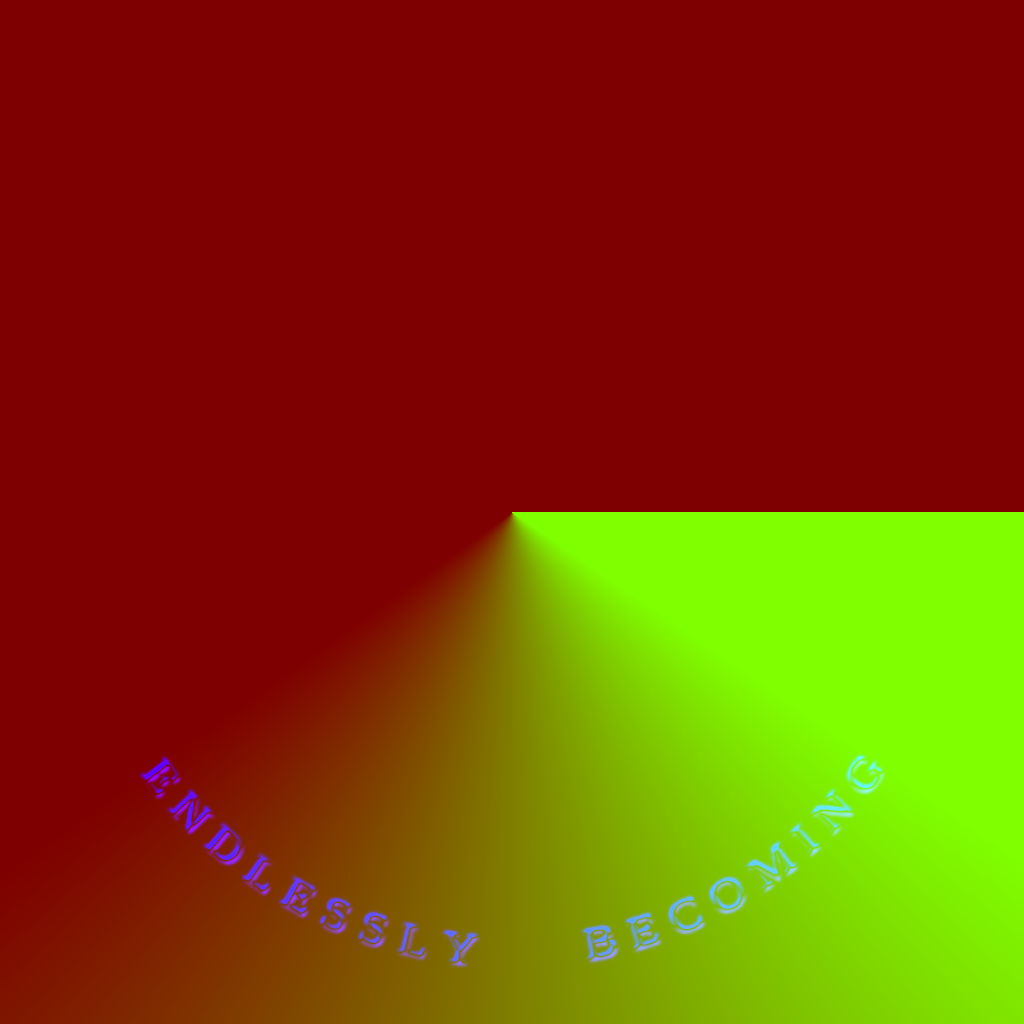
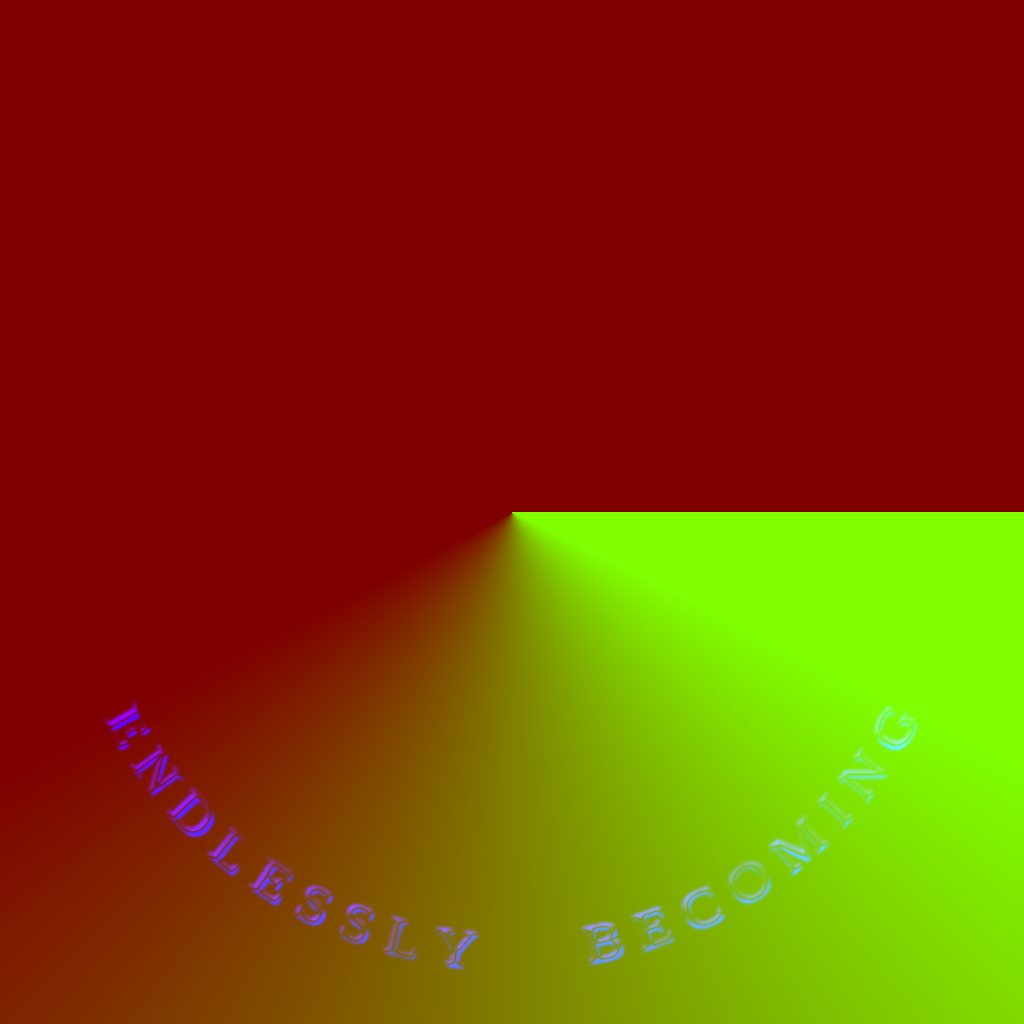
Loader fire fully behind the bird; raised rim text; filed jade folders
- Loader: a hand-drawn silhouette of the bird (head, neck, wings, body,
  tail) now hides the fire completely, so it burns behind the bird and
  shows only around and above it; ENDLESSLY BECOMING is raised, larger,
  more faded and worn, still written in left to right
- Header title slightly smaller and squished vertically
- Database: folders rebuilt as dark jade casings with lilac title tabs,
  shorter and overlapped like dividers in a drawer (SOUND at the back),
  cream/aged/kraft papers and black-and-white prints peeking out, clean
  edges, and upright file numbers 00721-00717

Claude-Session: https://claude.ai/code/session_01GEiCiMgUdnFGueHPjJC2GJ

Changed region(s): [[0.0938, 0.6875, 0.4688, 0.9688], [0.5625, 0.6875, 0.9062, 0.9375]]

diff --git a/index.html b/index.html
@@ -108,53 +108,120 @@
         <p class="db-heading-sub" data-i18n="db_heading_sub">PROJECT FILING SYSTEM</p>
       </div>
       <div class="filing-cabinet">
-      <button type="button" class="folder" data-folder="sound">
+      <button type="button" class="folder" data-folder="sound" style="--i:1">
+        <span class="folder-papers" aria-hidden="true">
+          <span class="paper paper--kraft" style="--x:8%;--w:7%;--h:20px;--r:-1.3deg"></span>
+          <span class="paper paper--cream" style="--x:10%;--w:13%;--h:18px;--r:-1.9deg"></span>
+          <span class="paper paper--cream" style="--x:14%;--w:15%;--h:18px;--r:-1.9deg"></span>
+          <span class="paper paper--photo-b" style="--x:20%;--w:4%;--h:15px;--r:0.6deg"></span>
+          <span class="paper paper--photo-b" style="--x:52%;--w:4%;--h:21px;--r:0.4deg"></span>
+          <span class="paper paper--cream" style="--x:70%;--w:10%;--h:12px;--r:0.2deg"></span>
+          <span class="paper paper--aged" style="--x:84%;--w:11%;--h:18px;--r:-1.6deg"></span>
+        </span>
         <span class="folder-tab"><span class="folder-label" data-i18n="cat_sound_label">SOUND</span></span>
         <span class="folder-body">
-          <span class="folder-sheet"></span>
-          <span class="folder-meta"><span class="folder-no">N&ordm; 01</span><span class="folder-rule"></span><span class="folder-lock" data-i18n="code_label">PRIVATE CODE</span></span>
+          <span class="folder-no">00721</span>
+          <span class="folder-lock" data-i18n="code_label">PRIVATE CODE</span>
         </span>
       </button>
-      <button type="button" class="folder" data-folder="visual-direction">
+      <button type="button" class="folder" data-folder="visual-direction" style="--i:2">
+        <span class="folder-papers" aria-hidden="true">
+          <span class="paper paper--photo-b" style="--x:14%;--w:5%;--h:17px;--r:-1.8deg"></span>
+          <span class="paper paper--cream" style="--x:24%;--w:8%;--h:21px;--r:-1.9deg"></span>
+          <span class="paper paper--aged" style="--x:40%;--w:14%;--h:22px;--r:0.1deg"></span>
+          <span class="paper paper--aged" style="--x:72%;--w:12%;--h:19px;--r:0.4deg"></span>
+          <span class="paper paper--photo" style="--x:74%;--w:6%;--h:16px;--r:-1.1deg"></span>
+          <span class="paper paper--aged" style="--x:76%;--w:10%;--h:13px;--r:0.3deg"></span>
+        </span>
         <span class="folder-tab"><span class="folder-label" data-i18n="cat_visual_label">VISUAL DIRECTION</span></span>
         <span class="folder-body">
-          <span class="folder-sheet"></span>
-          <span class="folder-meta"><span class="folder-no">N&ordm; 02</span><span class="folder-rule"></span><span class="folder-lock" data-i18n="code_label">PRIVATE CODE</span></span>
+          <span class="folder-no">00722</span>
+          <span class="folder-lock" data-i18n="code_label">PRIVATE CODE</span>
         </span>
       </button>
-      <button type="button" class="folder" data-folder="scenography">
+      <button type="button" class="folder" data-folder="scenography" style="--i:3">
+        <span class="folder-papers" aria-hidden="true">
+          <span class="paper paper--photo" style="--x:10%;--w:5%;--h:24px;--r:-0.7deg"></span>
+          <span class="paper paper--photo" style="--x:16%;--w:7%;--h:12px;--r:2.0deg"></span>
+          <span class="paper paper--cream" style="--x:38%;--w:15%;--h:21px;--r:1.3deg"></span>
+          <span class="paper paper--aged" style="--x:44%;--w:12%;--h:17px;--r:0.9deg"></span>
+          <span class="paper paper--photo-b" style="--x:58%;--w:7%;--h:21px;--r:1.3deg"></span>
+          <span class="paper paper--cream" style="--x:64%;--w:8%;--h:16px;--r:-0.1deg"></span>
+          <span class="paper paper--cream" style="--x:66%;--w:8%;--h:12px;--r:1.0deg"></span>
+          <span class="paper paper--kraft" style="--x:78%;--w:14%;--h:16px;--r:1.0deg"></span>
+        </span>
         <span class="folder-tab"><span class="folder-label" data-i18n="cat_sceno_label">SCENOGRAPHY</span></span>
         <span class="folder-body">
-          <span class="folder-sheet"></span>
-          <span class="folder-meta"><span class="folder-no">N&ordm; 03</span><span class="folder-rule"></span><span class="folder-lock" data-i18n="code_label">PRIVATE CODE</span></span>
+          <span class="folder-no">00733</span>
+          <span class="folder-lock" data-i18n="code_label">PRIVATE CODE</span>
         </span>
       </button>
-      <button type="button" class="folder" data-folder="talent-representation">
+      <button type="button" class="folder" data-folder="talent-representation" style="--i:4">
+        <span class="folder-papers" aria-hidden="true">
+          <span class="paper paper--cream" style="--x:4%;--w:10%;--h:24px;--r:-0.9deg"></span>
+          <span class="paper paper--cream" style="--x:16%;--w:10%;--h:18px;--r:-0.5deg"></span>
+          <span class="paper paper--aged" style="--x:22%;--w:14%;--h:13px;--r:-1.5deg"></span>
+          <span class="paper paper--photo" style="--x:46%;--w:8%;--h:16px;--r:1.7deg"></span>
+          <span class="paper paper--aged" style="--x:60%;--w:13%;--h:20px;--r:-1.0deg"></span>
+          <span class="paper paper--photo" style="--x:64%;--w:6%;--h:22px;--r:1.7deg"></span>
+          <span class="paper paper--aged" style="--x:80%;--w:9%;--h:13px;--r:-1.4deg"></span>
+          <span class="paper paper--aged" style="--x:90%;--w:7%;--h:12px;--r:-0.1deg"></span>
+        </span>
         <span class="folder-tab"><span class="folder-label" data-i18n="cat_talent_label">TALENT REPRESENTATION</span></span>
         <span class="folder-body">
-          <span class="folder-sheet"></span>
-          <span class="folder-meta"><span class="folder-no">N&ordm; 04</span><span class="folder-rule"></span><span class="folder-lock" data-i18n="code_label">PRIVATE CODE</span></span>
+          <span class="folder-no">00738</span>
+          <span class="folder-lock" data-i18n="code_label">PRIVATE CODE</span>
         </span>
       </button>
-      <button type="button" class="folder" data-folder="event-curation">
+      <button type="button" class="folder" data-folder="event-curation" style="--i:5">
+        <span class="folder-papers" aria-hidden="true">
+          <span class="paper paper--photo-b" style="--x:2%;--w:8%;--h:17px;--r:2.0deg"></span>
+          <span class="paper paper--cream" style="--x:20%;--w:15%;--h:21px;--r:0.7deg"></span>
+          <span class="paper paper--cream" style="--x:24%;--w:7%;--h:19px;--r:1.8deg"></span>
+          <span class="paper paper--aged" style="--x:34%;--w:15%;--h:18px;--r:-0.4deg"></span>
+          <span class="paper paper--photo" style="--x:38%;--w:4%;--h:19px;--r:0.6deg"></span>
+          <span class="paper paper--cream" style="--x:48%;--w:10%;--h:13px;--r:2.1deg"></span>
+          <span class="paper paper--photo" style="--x:54%;--w:5%;--h:13px;--r:-0.7deg"></span>
+          <span class="paper paper--cream" style="--x:70%;--w:8%;--h:12px;--r:0.3deg"></span>
+        </span>
         <span class="folder-tab"><span class="folder-label" data-i18n="cat_event_label">EVENT CURATION</span></span>
         <span class="folder-body">
-          <span class="folder-sheet"></span>
-          <span class="folder-meta"><span class="folder-no">N&ordm; 05</span><span class="folder-rule"></span><span class="folder-lock" data-i18n="code_label">PRIVATE CODE</span></span>
+          <span class="folder-no">00798</span>
+          <span class="folder-lock" data-i18n="code_label">PRIVATE CODE</span>
         </span>
       </button>
-      <button type="button" class="folder" data-folder="exhibitions">
+      <button type="button" class="folder" data-folder="exhibitions" style="--i:6">
+        <span class="folder-papers" aria-hidden="true">
+          <span class="paper paper--cream" style="--x:4%;--w:11%;--h:17px;--r:0.5deg"></span>
+          <span class="paper paper--photo" style="--x:10%;--w:4%;--h:13px;--r:1.5deg"></span>
+          <span class="paper paper--photo" style="--x:14%;--w:7%;--h:19px;--r:-0.8deg"></span>
+          <span class="paper paper--aged" style="--x:20%;--w:8%;--h:23px;--r:-0.7deg"></span>
+          <span class="paper paper--kraft" style="--x:28%;--w:14%;--h:23px;--r:-1.5deg"></span>
+          <span class="paper paper--cream" style="--x:48%;--w:10%;--h:20px;--r:-0.6deg"></span>
+          <span class="paper paper--cream" style="--x:50%;--w:15%;--h:12px;--r:1.1deg"></span>
+          <span class="paper paper--kraft" style="--x:80%;--w:8%;--h:23px;--r:1.5deg"></span>
+        </span>
         <span class="folder-tab"><span class="folder-label" data-i18n="cat_exhib_label">EXHIBITIONS</span></span>
         <span class="folder-body">
-          <span class="folder-sheet"></span>
-          <span class="folder-meta"><span class="folder-no">N&ordm; 06</span><span class="folder-rule"></span><span class="folder-lock" data-i18n="code_label">PRIVATE CODE</span></span>
+          <span class="folder-no">00745</span>
+          <span class="folder-lock" data-i18n="code_label">PRIVATE CODE</span>
         </span>
       </button>
-      <button type="button" class="folder" data-folder="private-art">
+      <button type="button" class="folder" data-folder="private-art" style="--i:7">
+        <span class="folder-papers" aria-hidden="true">
+          <span class="paper paper--cream" style="--x:22%;--w:10%;--h:21px;--r:1.4deg"></span>
+          <span class="paper paper--aged" style="--x:30%;--w:10%;--h:24px;--r:-1.1deg"></span>
+          <span class="paper paper--photo" style="--x:44%;--w:5%;--h:15px;--r:0.1deg"></span>
+          <span class="paper paper--kraft" style="--x:46%;--w:7%;--h:12px;--r:1.3deg"></span>
+          <span class="paper paper--photo" style="--x:48%;--w:6%;--h:15px;--r:0.8deg"></span>
+          <span class="paper paper--kraft" style="--x:66%;--w:14%;--h:24px;--r:1.9deg"></span>
+          <span class="paper paper--kraft" style="--x:70%;--w:12%;--h:13px;--r:-1.2deg"></span>
+          <span class="paper paper--aged" style="--x:82%;--w:14%;--h:15px;--r:-0.7deg"></span>
+        </span>
         <span class="folder-tab"><span class="folder-label" data-i18n="cat_art_label">PRIVATE ART</span></span>
         <span class="folder-body">
-          <span class="folder-sheet"></span>
-          <span class="folder-meta"><span class="folder-no">N&ordm; 07</span><span class="folder-rule"></span><span class="folder-lock" data-i18n="code_label">PRIVATE CODE</span></span>
+          <span class="folder-no">00717</span>
+          <span class="folder-lock" data-i18n="code_label">PRIVATE CODE</span>
         </span>
       </button>
       </div>

diff --git a/styles.css b/styles.css
@@ -11,8 +11,11 @@
   --muted:#A79F90;
   --hairline: rgba(245,242,235,0.14);
   --v-squish: scaleY(0.9);
-  --folder:#161411;
-  --folder-edge:rgba(245,242,235,0.12);
+  --jade-hi:#2a4c42;
+  --jade:#1b362f;
+  --jade-lo:#0f201b;
+  --tab-hi:#c7bfdb;
+  --tab:#aea5c6;
 
   --sans: "Helvetica Neue","Helvetica",Arial,sans-serif;
   --serif: "Times New Roman", Times, Georgia, serif;
@@ -70,8 +73,9 @@ button{font-family:inherit;background:none;border:none;color:inherit;cursor:poin
 .emblem img{ display:block; width:100%; height:100%; }
 .emblem:hover{ opacity:0.85; transform:scale(1.04); }
 .wordmark{
+  display:inline-block; transform:scaleY(0.9); transform-origin:center;
   font-family:"Brand", var(--serif); color:var(--fg);
-  font-size:clamp(18px,2.4vw,25px); letter-spacing:0.12em; font-weight:400;
+  font-size:clamp(16px,2.1vw,22px); letter-spacing:0.12em; font-weight:400;
   cursor:pointer; white-space:nowrap;
 }
 .subtitle-wrap{ height:20px; overflow:hidden; position:relative; }
@@ -170,38 +174,38 @@ button{font-family:inherit;background:none;border:none;color:inherit;cursor:poin
 }
 
 .filing-cabinet{
-  width:100%; margin:64px 0 0; padding:0 0 110px;
-  display:flex; flex-direction:column; gap:22px;
+  width:100%; margin:56px 0 0; padding:0 0 110px;
+  display:flex; flex-direction:column;
   overflow-x:hidden;
 }
-/* Each folder = a rounded title tab attached to a full-width dark file body */
+/* Folders are filed one in front of the next, like dividers in a drawer:
+   SOUND sits at the back, each following folder overlaps the one behind it. */
 .folder{
+  --body-h:104px;
+  position:relative; z-index:var(--i);
   display:flex; flex-direction:column; align-items:flex-start;
-  width:100%; border:none; background:none; padding:0; margin:0;
-  cursor:pointer; text-align:left; font:inherit; color:inherit; position:relative;
+  width:100%; border:none; background:none; padding:30px 0 0; margin:0;
+  cursor:pointer; text-align:left; font:inherit; color:inherit;
+  transition:transform .45s cubic-bezier(.2,.7,.2,1);
 }
+.folder + .folder{ margin-top:-60px; }
+.folder:hover{ transform:translateY(-7px); }
+
+/* the title card */
 .folder-tab{
-  display:block; position:relative; z-index:2;
-  margin:0 0 -1px 0;            /* overlaps the body's top edge so tab + body read as one piece */
-  padding:12px 26px 11px;
-  background:var(--folder);
-  border:1px solid var(--folder-edge); border-bottom:none;
-  border-radius:14px 14px 0 0;
+  position:relative; z-index:2; display:block;
+  margin:0 0 -1px 0; padding:10px 24px 9px;
   max-width:calc(100% - 32px);
-  transition:background .3s ease;
+  background:linear-gradient(180deg, var(--tab-hi) 0%, var(--tab) 100%);
+  border-radius:12px 12px 0 0;
+  box-shadow:inset 0 1px 0 rgba(255,255,255,0.35);
+  transition:filter .3s ease;
 }
-/* curved shoulders where the tab meets the file body */
-.folder-tab::before, .folder-tab::after{
-  content:""; position:absolute; bottom:0; width:14px; height:14px;
-  pointer-events:none;
-}
-.folder-tab::before{ left:-15px;  background:radial-gradient(circle at 0 0, transparent 13px, var(--folder-edge) 13px, var(--folder-edge) 14px, var(--folder) 14px); }
-.folder-tab::after { right:-15px; background:radial-gradient(circle at 100% 0, transparent 13px, var(--folder-edge) 13px, var(--folder-edge) 14px, var(--folder) 14px); }
 .folder-label{
-  font-weight:500; font-size:11.5px; letter-spacing:0.14em; color:var(--fg);
+  font-weight:500; font-size:11.5px; letter-spacing:0.14em; color:#221d2c;
   white-space:nowrap; overflow:hidden; text-overflow:ellipsis; display:block;
 }
-/* Hand-placed offsets so the tabs never line up in a column */
+/* hand-placed so the tabs never line up in a column */
 .folder:nth-child(1) .folder-tab{ margin-left:68%; }
 .folder:nth-child(2) .folder-tab{ margin-left:8%; }
 .folder:nth-child(3) .folder-tab{ margin-left:42%; }
@@ -210,46 +214,56 @@ button{font-family:inherit;background:none;border:none;color:inherit;cursor:poin
 .folder:nth-child(6) .folder-tab{ margin-left:4%; }
 .folder:nth-child(7) .folder-tab{ margin-left:31%; }
 
+/* the dark jade casing */
 .folder-body{
-  display:block; position:relative;
-  width:100%; height:150px;
-  background:linear-gradient(180deg, var(--folder) 0%, #0D0C0B 100%);
-  border-top:1px solid var(--folder-edge);
-  box-shadow:0 -1px 0 rgba(0,0,0,0.6), 0 20px 34px rgba(0,0,0,0.5);
-  overflow:hidden;
-  transition:background .3s ease;
+  position:relative; z-index:1; display:block;
+  width:100%; height:var(--body-h);
+  background:
+    linear-gradient(104deg, rgba(170,235,205,0.07) 0%, transparent 28%, rgba(170,235,205,0.045) 56%, transparent 74%),
+    linear-gradient(180deg, var(--jade-hi) 0%, var(--jade) 38%, var(--jade-lo) 100%);
+  border-radius:4px 4px 0 0;
+  box-shadow:0 -12px 26px rgba(0,0,0,0.5), inset 0 1px 0 rgba(190,245,220,0.2);
+  transition:filter .3s ease;
 }
-/* fold crease along the top of the file */
-.folder-body::before{
-  content:""; position:absolute; left:0; right:0; top:14px; height:1px;
-  background:linear-gradient(90deg, transparent, rgba(245,242,235,0.07) 8%, rgba(245,242,235,0.07) 92%, transparent);
+.folder-no, .folder-lock{
+  position:absolute; top:15px;
+  font-family:var(--sans); font-style:normal; font-weight:400;
+  font-size:10.5px; letter-spacing:0.26em; color:rgba(215,238,227,0.72);
+  font-variant-numeric:tabular-nums; white-space:nowrap;
 }
-/* stitched inner border */
-.folder-body::after{
-  content:""; position:absolute; top:30px; bottom:18px; left:28px; right:28px;
-  border:1px dashed rgba(245,242,235,0.06); border-radius:4px;
-}
-/* a document sheet tucked inside the file, edge peeking at the top */
-.folder-sheet{
-  position:absolute; top:22px; right:9%; width:min(300px,34%); height:200px;
-  background:#1D1A16; border:1px solid rgba(245,242,235,0.08); border-radius:2px;
-  background-image:repeating-linear-gradient(180deg, transparent 0 17px, rgba(245,242,235,0.045) 17px 18px);
-  background-position:0 26px;
-  transform:rotate(-0.6deg);
-  transition:transform .45s cubic-bezier(.4,0,.2,1);
-}
-.folder-meta{
-  position:absolute; left:46px; right:calc(9% + min(300px,34%) + 34px); bottom:34px;
-  display:flex; align-items:center; gap:16px;
-  font-size:9.5px; letter-spacing:0.24em; color:var(--muted); font-weight:300;
-}
-.folder-no{ font-family:var(--serif); font-style:italic; letter-spacing:0.08em; font-size:12px; color:#CFCAC0; }
-.folder-rule{ flex:1; height:1px; background:rgba(245,242,235,0.1); min-width:20px; }
-.folder-lock{ white-space:nowrap; }
+.folder-no{ left:26px; }
+.folder-lock{ right:26px; font-size:9.5px; color:rgba(215,238,227,0.45); }
 
-.folder:hover .folder-tab, .folder:hover .folder-body{ --folder:#221E19; }
-.folder:hover .folder-sheet{ transform:translateY(-8px) rotate(-0.6deg); }
-.folder:focus-visible .folder-body{ outline:1px solid var(--fg); outline-offset:-2px; }
+/* papers tucked into each file, peeking out above it */
+.folder-papers{
+  position:absolute; left:0; right:0; top:0; bottom:var(--body-h);
+  z-index:0; pointer-events:none;
+}
+.paper{
+  position:absolute; bottom:-12px; left:var(--x); width:var(--w); height:calc(var(--h) + 12px);
+  transform:rotate(var(--r)); transform-origin:bottom center;
+  border-radius:1px;
+  box-shadow:0 -1px 0 rgba(255,255,255,0.25), 0 2px 5px rgba(0,0,0,0.35);
+  transition:transform .45s cubic-bezier(.2,.7,.2,1);
+}
+.paper--cream{ background:linear-gradient(180deg, #efe7d3, #e2d8bf); }
+.paper--aged{ background:linear-gradient(180deg, #e2cf98, #cdb57a); }
+.paper--kraft{ background:linear-gradient(180deg, #b28f60, #9b774b); }
+.paper--photo, .paper--photo-b{
+  border:3px solid #ece8de; border-bottom:none;
+  background:
+    radial-gradient(ellipse 40% 55% at 30% 70%, rgba(255,255,255,0.22), transparent 70%),
+    linear-gradient(165deg, #a8a7a2 0%, #5c5b58 45%, #262625 100%);
+}
+.paper--photo-b{
+  background:
+    radial-gradient(ellipse 30% 60% at 68% 60%, rgba(0,0,0,0.45), transparent 70%),
+    linear-gradient(200deg, #d3d1cb 0%, #8a8984 50%, #434240 100%);
+}
+.folder:hover .paper{ transform:translateY(-5px) rotate(var(--r)); }
+.folder:hover .folder-body{ filter:brightness(1.12); }
+.folder:hover .folder-tab{ filter:brightness(1.06); }
+.folder:focus-visible .folder-tab{ outline:1px solid var(--fg); outline-offset:2px; }
 
 .site-footer{ padding:30px 20px 44px; border-top:1px solid var(--hairline); }
 .home-footer{ text-align:center; font-size:10px; letter-spacing:0.2em; color:var(--muted); font-weight:300; }
@@ -388,24 +402,22 @@ button{font-family:inherit;background:none;border:none;color:inherit;cursor:poin
 
 @media (max-width:900px){
   .tiles-row{ grid-template-columns:1fr; max-width:420px; margin:0 auto; }
-  .folder-body{ height:120px; }
-  .folder:nth-child(1) .folder-tab{ margin-left:4%; }
-  .folder:nth-child(2) .folder-tab{ margin-left:30%; }
-  .folder:nth-child(3) .folder-tab{ margin-left:12%; }
-  .folder:nth-child(4) .folder-tab{ margin-left:22%; }
-  .folder:nth-child(5) .folder-tab{ margin-left:6%; }
-  .folder:nth-child(6) .folder-tab{ margin-left:34%; }
-  .folder:nth-child(7) .folder-tab{ margin-left:16%; }
-  .folder-sheet{ right:6%; width:38%; }
-  .folder-meta{ left:26px; right:calc(6% + 38% + 20px); bottom:26px; }
-  .folder-body::after{ left:14px; right:14px; }
+  .folder{ --body-h:92px; }
+  .folder + .folder{ margin-top:-54px; }
+  .folder:nth-child(1) .folder-tab{ margin-left:40%; }
+  .folder:nth-child(2) .folder-tab{ margin-left:6%; }
+  .folder:nth-child(3) .folder-tab{ margin-left:30%; }
+  .folder:nth-child(4) .folder-tab{ margin-left:12%; }
+  .folder:nth-child(5) .folder-tab{ margin-left:36%; }
+  .folder:nth-child(6) .folder-tab{ margin-left:4%; }
+  .folder:nth-child(7) .folder-tab{ margin-left:22%; }
   .folder-lock{ display:none; }
 }
 @media (max-width:640px){
   .bar-inner{ grid-template-columns:auto 1fr auto; gap:10px; padding:12px 16px; }
   .emblem{ width:40px; height:40px; }
   .subtitle-wrap{ display:none; }
-  .wordmark{ font-size:17px; letter-spacing:0.1em; }
+  .wordmark{ font-size:15.5px; letter-spacing:0.1em; }
   .bar-right{ gap:14px; }
   .enquire-btn{ padding:7px 12px; font-size:11.5px; letter-spacing:0.16em; }
   .lang-toggle > span{ display:none; }

diff --git a/script.js b/script.js
@@ -70,7 +70,7 @@ function startCoinFire(canvas){
         float lit = 1.0 - smoothstep(front - 0.12, front + 0.02, yb + rag);
         // quieter and more transparent low down, fuller towards the wings
         float low = mix(0.28, 1.0, smoothstep(0.12, 0.55, yb));
-        float k = m.r * lit * (1.0 - 0.9 * m.g) * low;
+        float k = m.r * lit * (1.0 - m.g) * low;
         if(k > 0.001){
           float e = 0.003;
           float h = flame(uv);
